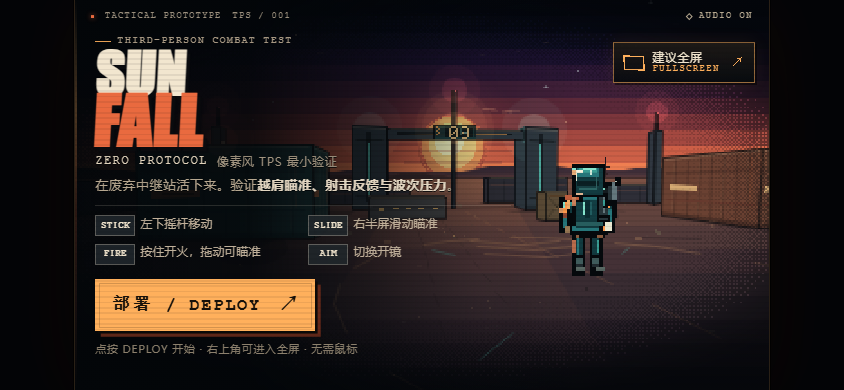
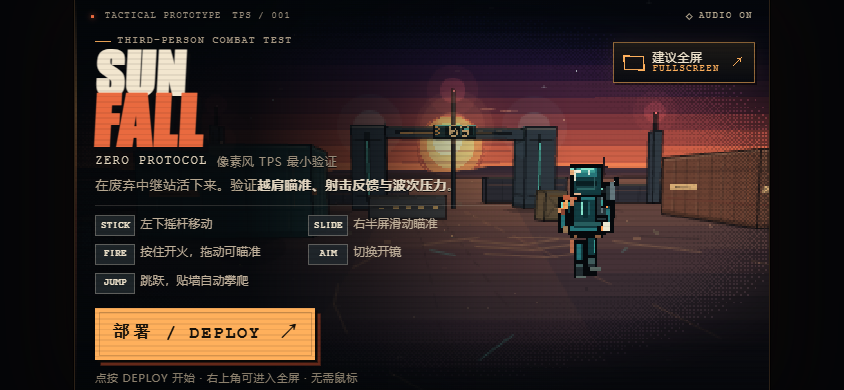
docs: 同步跳跃/攀爬的操作表、代码地图与预览图
- README：桌面/触屏操作表补 SPACE / JUMP；补充跳跃高度与 SPACE CLIMB 提示说明；
  "验证内容"补 3C 动作与立体地形，"原型边界"改为无蹲伏/无墙跑、敌人不攀爬等。
- 开始页操作表补 SPACE 与方向键；暂停页提示、触屏帮助补 JUMP。
- AGENTS：刷新代码地图行号，新增"垂直移动契约"一节（p.y / BODY_H / STEP_UP /
  CLIMB_REACH / climbable），验证清单补立体地形项，已知限制与 backlog 同步。
- 三张预览图按新画面重截：桌面（集装箱顶俯瞰）、手机触控（含 JUMP 键）、开始页。

diff --git a/index.html b/index.html
@@ -556,15 +556,18 @@
         <div class="ctl"><kbd>WASD</kbd><span>移动</span></div>
         <div class="ctl"><kbd>LMB</kbd><span>射击</span></div>
         <div class="ctl"><kbd>RMB</kbd><span>瞄准</span></div>
+        <div class="ctl"><kbd>SPACE</kbd><span>跳跃 / 攀爬</span></div>
         <div class="ctl"><kbd>SHIFT</kbd><span>冲刺</span></div>
         <div class="ctl"><kbd>R</kbd><span>换弹</span></div>
         <div class="ctl"><kbd>ESC</kbd><span>暂停</span></div>
+        <div class="ctl"><kbd>↑↓</kbd><span>视角</span></div>
       </div>
       <div class="touch-help" aria-label="触屏操作">
         <span><b>STICK</b>左下摇杆移动</span>
         <span><b>SLIDE</b>右半屏滑动瞄准</span>
         <span><b>FIRE</b>按住开火，拖动可瞄准</span>
         <span><b>AIM</b>切换开镜</span>
+        <span><b>JUMP</b>跳跃，贴墙自动攀爬</span>
       </div>
       <div class="actions">
         <button id="deploy" class="btn" type="button">部署 / DEPLOY<span class="arrow">↗</span></button>
@@ -584,7 +587,7 @@
         <button id="resume" class="btn" type="button">继续 / RESUME<span class="arrow">→</span></button>
         <button id="pauseQuit" class="text-btn" type="button">ABANDON RUN</button>
       </div>
-      <div class="pause-note"><span><b>WASD</b> 移动</span><span><b>LMB</b> 射击</span><span><b>RMB</b> 瞄准</span><span><b>SHIFT</b> 冲刺</span><span><b>R</b> 换弹</span></div>
+      <div class="pause-note"><span><b>WASD</b> 移动</span><span><b>LMB</b> 射击</span><span><b>RMB</b> 瞄准</span><span><b>SPACE</b> 跳跃/攀爬</span><span><b>SHIFT</b> 冲刺</span><span><b>R</b> 换弹</span></div>
     </div>
   </section>
 

diff --git a/AGENTS.md b/AGENTS.md
@@ -55,7 +55,7 @@ npx --yes serve C:\pixel-tps -l 4321
 
 ```
 C:\pixel-tps\
-├── index.html             # 全部实现：HTML + CSS + JS（单文件，约 4867 行）
+├── index.html             # 全部实现：HTML + CSS + JS（单文件，约 5214 行）
 ├── README.md              # 玩家向说明：操作表、验证内容、原型边界
 ├── cloudflare.config.ts   # Cloudflare Workers 部署配置（cf CLI 读取）
 ├── preview.png            # 桌面实际游玩画面（README 引用）
@@ -82,31 +82,41 @@ Select-String -Path index.html -Pattern '^\s*// -{3,}' -Encoding UTF8
 | 行 | 区块 | 职责 |
 |---:|---|---|
 | 9 | `<style>` | 全部 CSS（含 320 行的 touch/mobile 段） |
-| 527 | `<body>` | DOM：`#frame`、`#game`，菜单/暂停/结算、HUD、触屏控件、旋转提示 |
-| 636 | `<script>` | IIFE，`'use strict'`，全部逻辑作用域 |
-| 640 | 总注释 | 说明 384×216 + 最近邻 + 无外部资源 |
-| 708 | fullscreen | 全屏 API、`is-fullscreen` 状态、降级提示（Safari / 添加到主屏幕） |
-| 760 | math / colour | 数学、颜色、像素抖动辅助 |
-| 849 | bitmap font | 位图字体，HUD 文本渲染 |
-| 957 | sprites | 程序化像素精灵（角色、敌人、枪、道具） |
-| 1359 | audio | Web Audio 音效合成，需一次用户手势解锁 |
-| 1512 | world | 场景/掩体/世界数据 `WORLD` |
-| 1671 | game state | `game` 对象、波次、计分、玩家状态 |
-| 1764 | projection / camera | 越肩相机、肩部偏移、ADS 拉近、投影 `project()` |
-| 1937 | collision / rays | 碰撞、射线 `castWorldRay()`、视线检测 |
-| 2057 | effects | 弹着火花、tracer、屏幕震动、伤害数字 |
-| 2103 | shooting / enemies | 射击判定（hitscan / 爆头）、敌人 AI、弹丸、波次生成 |
-| 2767 | rendering: sky | 天空 |
-| 2943 | rendering: ground | 地面 |
-| 3177 | rendering: boxes | 掩体方块 |
-| 3367 | rendering: billboards / effects | billboard 精灵按深度排序、特效层 |
-| 3801 | HUD | 雷达、生命、弹药、波次、准星（4001 生命区 / 4038 计分区） |
-| 4182 | full-screen effects | CRT 扫描线、暗角、受击闪红 |
-| 4287 | main render | 单帧渲染总装 |
-| 4310 | UI / state | 状态机 `menu / playing / paused / gameover`、开始/暂停/结算切换 |
-| 4474 | input | 键鼠：WASD、左键、右键 ADS、Shift、R、Esc、M、Enter、指针锁定与右键拖动降级 |
-| 4574 | touch controls | 虚拟摇杆、右半屏滑动、FIRE/AIM/DASH/RELOAD/II，pointer capture |
-| 4811 | loop | `requestAnimationFrame` 主循环 + `window.SUNFALL` 调试句柄 |
+| 534 | `<body>` | DOM：`#frame`、`#game`，菜单/暂停/结算、HUD、触屏控件、旋转提示 |
+| 647 | `<script>` | IIFE，`'use strict'`，全部逻辑作用域 |
+| 651 | 总注释 | 说明 384×216 + 最近邻 + 无外部资源 |
+| 719 | fullscreen | 全屏 API、`is-fullscreen` 状态、降级提示（Safari / 添加到主屏幕） |
+| 771 | math / colour | 数学、颜色、像素抖动辅助 |
+| 860 | bitmap font | 位图字体，HUD 文本渲染 |
+| 968 | sprites | 程序化像素精灵（角色含空中收腿帧、敌人、枪、道具） |
+| 1372 | audio | Web Audio 音效合成，需一次用户手势解锁 |
+| 1537 | world | 场景/掩体/世界数据 `WORLD`；含货台、楼梯、集装箱攀爬路线 |
+| 1722 | game state | `game` 对象、波次、计分、玩家状态（`y/vy/grounded/climb`） |
+| 1819 | projection / camera | 越肩相机、肩部偏移、ADS 拉近、垂直阻尼跟随、投影 `project()` |
+| 2000 | collision / rays | 高度感知碰撞（`bodyBlocked` / `surfaceBelow`）、射线 `castWorldRay()`、视线检测 |
+| 2170 | effects | 弹着火花、tracer、屏幕震动、伤害数字 |
+| 2216 | shooting / enemies | 射击判定（hitscan / 爆头）、跳跃/攀爬入口、敌人 AI、弹丸、波次生成 |
+| 3074 | rendering: sky | 天空 |
+| 3250 | rendering: ground | 地面、投影阴影（按脚下支撑面） |
+| 3487 | rendering: boxes | 掩体方块（含 `deck` 货台样式与细节） |
+| 3692 | rendering: billboards / effects | billboard 精灵按深度排序、特效层 |
+| 4128 | HUD | 雷达、生命、弹药、波次、准星与攀爬提示（4333 生命区 / 4370 计分区） |
+| 4514 | full-screen effects | CRT 扫描线、暗角、受击闪红 |
+| 4619 | main render | 单帧渲染总装 |
+| 4642 | UI / state | 状态机 `menu / playing / paused / gameover`、开始/暂停/结算切换 |
+| 4808 | input | 键鼠：WASD、左键、右键 ADS、Space 跳跃/攀爬、Shift、R、Esc、M、Enter、指针锁定与右键拖动降级 |
+| 4911 | touch controls | 虚拟摇杆、右半屏滑动、FIRE/AIM/JUMP/DASH/RELOAD/II，pointer capture |
+| 5157 | loop | `requestAnimationFrame` 主循环 + `window.SUNFALL` 调试句柄 |
+
+### 垂直移动契约
+
+改地形/移动前先看这一段，否则很容易做出"人卡在台子里"的 bug：
+
+- 玩家是**圆柱 + 脚底高度**：`p.y` 是脚底，身高 `BODY_H = 1.72`。所有落地判定都走 `surfaceBelow(x, z, maxY)`。
+- 水平碰撞走 `resolveCircle(ent, r, feetY, stepUp)`：与身体区间不重叠的方块不再推人，所以站在箱顶上不会再被同一个箱子弹开。
+- `STEP_UP = 0.34` 是自动上台阶上限（楼梯踏步按 0.28–0.3 设计）；`STEP_DOWN = 0.42` 以内走下台阶不进入下落状态。
+- `CLIMB_REACH = 2.05` 是可攀爬的台沿高度；`buildWorld()` 里 `climbable` 由 `type !== 'wall'` 决定，**外围墙永远不可攀爬**（它是场地边界）。
+- 敌人不参与这套系统（`y` 恒为 0、不传 feetY），所以只能在地面绕行；新增抬高的可站立平台时记得别把敌人出生点放上去（`findSpawn` 已按 `surfaceBelow` 过滤）。
 
 ### 自动化调试句柄
 
@@ -116,7 +126,8 @@ Select-String -Path index.html -Pattern '^\s*// -{3,}' -Encoding UTF8
 SUNFALL.start()          // 进入 playing
 SUNFALL.state()           // 'menu' | 'playing' | 'paused' | 'gameover'
 SUNFALL.pause(); SUNFALL.resume(); SUNFALL.endGame()
-SUNFALL.castWorldRay(...); SUNFALL.project(...)
+SUNFALL.castWorldRay(...); SUNFALL.project(...); SUNFALL.surfaceBelow(...)
+SUNFALL.jump(); SUNFALL.mantle()   // 手动触发跳跃 / 攀爬探测
 // 另外暴露：game, cam, WORLD, SPRITES, sound
 ```
 
@@ -159,8 +170,9 @@ SUNFALL.castWorldRay(...); SUNFALL.project(...)
 提交前至少完成以下项，并把结论写进 commit body 或 PR 描述：
 
 - [ ] 页面加载无 console 报错（含未捕获异常、资源 404）
-- [ ] `?desktop=1`：WASD 移动、鼠标转向、左键连发、右键 ADS、Shift 冲刺、R 换弹、Esc 暂停、M 静音、Enter 快速开始
-- [ ] `?touch=1`：虚拟摇杆移动、右半屏滑动转向、FIRE 按住连发且可滑动瞄准、AIM / DASH / RELOAD / II 全部生效
+- [ ] `?desktop=1`：WASD 移动、鼠标转向、左键连发、右键 ADS、Shift 冲刺、Space 跳跃、R 换弹、Esc 暂停、M 静音、Enter 快速开始
+- [ ] `?touch=1`：虚拟摇杆移动、右半屏滑动转向、FIRE 按住连发且可滑动瞄准、AIM / JUMP / DASH / RELOAD / II 全部生效
+- [ ] 立体地形：走楼梯上货台（0.3→0.6→0.9→1.2→1.5）、贴台沿按跳跃能翻上去、矮箱→集装箱两段攀爬、从台面走落/跳落回地面不卡住
 - [ ] 状态机完整走通：`menu → playing → paused → playing`，以及死亡 `→ gameover →` 重开
 - [ ] 波次推进、击杀计分、换弹、冲刺无敌帧、生命归零结算均符合预期
 - [ ] 竖屏显示旋转提示（ROTATE TO PLAY）
@@ -251,10 +263,12 @@ git push -u origin feat/xxx
 这些是**已知且被接受**的取舍，修它们属于新需求，不属于 bug：
 
 - 角色与敌人是 billboard 精灵，遮挡按深度排序近似，近距离会有穿插。
-- 掩体绕行是方向采样，不是导航网格，复杂地形会卡住。
+- 掩体绕行是方向采样，不是导航网格，复杂地形会卡住；**敌人不会攀爬也不会跳**，玩家上高台后它们只在地面绕。
+- 攀爬是固定时长的一次性翻越动画：没有悬挂、横向挪移、蹬墙跳或墙跑；空中只有一段跳。
+- 只有玩家有垂直移动；敌人与弹丸的落点仍按地面高度近似（弹丸会被台面阻挡，但不会停在台面上滚动）。
 - 触屏准星只有轻微辅助吸附，不是自动瞄准。
 - 旧版 iOS Safari 的指针捕获/手势可能冲突，需要真机复测。
-- 没有跳跃、武器切换、存档、联网、性能分级。
+- 没有蹲伏、武器切换、存档、联网、性能分级。
 - 音频必须由一次用户手势启动（浏览器策略）。
 
 ---
@@ -264,7 +278,7 @@ git push -u origin feat/xxx
 按优先级排列，动手前先在 issue 或提交里说明取舍：
 
 1. **性能分级**：低端机降低粒子/后处理密度（目标：稳定 60fps）。
-2. **敌人寻路**：方向采样升级为轻量流场或路点图。
+2. **敌人寻路**：方向采样升级为轻量流场或路点图，并让敌人能上/绕开货台（当前它们只会在地面打转）。
 3. **武器多样性**：第二把武器 + 切换键位表（需同步 README）。
 4. **真机回归**：iOS Safari / Android Chrome 触屏手势实测记录。
 5. **CI 冒烟**：用 headless 浏览器 + `window.SUNFALL` 跑状态机断言。

diff --git a/README.md b/README.md
@@ -29,11 +29,16 @@
 | 鼠标 | 越肩视角瞄准 |
 | 左键 | 射击（按住连发） |
 | 右键 | 瞄准 / ADS（降低扩散、拉近视野） |
+| `Space` | 跳跃；朝台沿/箱子/集装箱推进时自动攀爬翻越 |
 | `Shift` | 冲刺（短暂无敌帧） |
 | `R` | 换弹 |
+| `方向键` | 转身 / 抬枪（无鼠标锁定时的备用视角） |
 | `Esc` | 暂停 / 继续 |
 | `M` | 静音 |
 | `Enter` | 菜单快速开始 / 结算快速重开 |
+
+跳跃高度约 0.85 个世界单位（约半个身位）：低矮掩体可以直接跳上，1.5 米以上的台面需要贴边攀爬。
+准星上方出现 `SPACE CLIMB` 时，说明前方台沿在攀爬判定内。
 
 ### 手机 / 触屏
 
@@ -43,6 +48,7 @@
 | 右半屏滑动 | 转向 / 抬枪 |
 | `FIRE` 按钮 | 按住连发；按住时滑动可边射边瞄 |
 | `AIM` 按钮 | 切换瞄准 / ADS |
+| `JUMP` 按钮 | 跳跃 / 贴边攀爬（准星提示 `JUMP CLIMB` 时可用） |
 | `DASH` | 冲刺 |
 | `RELOAD` | 换弹 |
 | `II` | 暂停 |
@@ -53,12 +59,14 @@
 
 ## 这个 Demo 验证的内容
 
-- **越肩第三人称相机**：肩部偏移、ADS 拉近、相机与掩体碰撞、命中反馈。
+- **越肩第三人称相机**：肩部偏移、ADS 拉近、相机与掩体碰撞、命中反馈；垂直方向带阻尼跟随，起跳时角色会在画面里"升起"，落地有下沉与震动。
+- **3C 基础动作**：走 / 冲刺 / 跳跃 / 攀爬翻越；带 coyote time（离台后仍可起跳）、跳跃缓冲、可变跳跃高度、空中控制、自动小台阶上下（≤0.34 米）与落地压缩、扬尘、音效。
+- **立体地形**：西侧带楼梯的双层货台、北侧装卸屋顶（三级台阶）、集装箱顶攀爬路线（矮箱→箱顶）、可翻越的低掩体；台面可以站立、架枪、跳下，敌人只能在地面绕行。
 - **射击手感**：hitscan、爆头判定、枪口火光、tracer、弹着火花、伤害数字、命中标记、后坐力、屏幕震动。
-- **战斗循环**：Grunt / Brute 两种敌人、延迟开火的弹丸、视线检测、简单掩体绕行、波次递增。
+- **战斗循环**：Grunt / Brute 两种敌人、延迟开火的弹丸、视线检测（按玩家所在高度计算）、简单掩体绕行、波次递增。
 - **生存循环**：生命值、冲刺无敌帧、换弹、击杀得分、波次奖励、死亡结算与重开。
-- **像素表现**：384×216 内部分辨率 + 最近邻放大、程序化像素角色/场景、抖动渐变、CRT 扫描线、像素字体 HUD。
-- **桌面 / 触屏双端**：桌面用鼠标锁定 + 键盘；触屏用虚拟摇杆 + 右半屏滑动 + 开火/瞄准/冲刺/换弹按钮。竖屏会显示旋转提示。
+- **像素表现**：384×216 内部分辨率 + 最近邻放大、程序化像素角色/场景、抖动渐变、CRT 扫描线、像素字体 HUD、空中收腿帧。
+- **桌面 / 触屏双端**：桌面用鼠标锁定 + 键盘；触屏用虚拟摇杆 + 右半屏滑动 + 开火/瞄准/跳跃/冲刺/换弹按钮。竖屏会显示旋转提示。
 - **全屏引导**：开始页右上角常驻「建议全屏」；开始后可从暂停菜单进入全屏。独立窗口模式会自动隐藏该提醒；浏览器不支持时给出 Safari / 添加到主屏幕的替代说明。
 - **零资产依赖**：没有图片、字体或音频文件；所有内容内联生成。
 
@@ -67,9 +75,10 @@
 这是一个验证手感和视觉方向的最小原型，不是生产级游戏：
 
 - 敌人和角色使用 billboard 精灵，遮挡关系是按深度排序的近似结果。
-- 掩体绕行是简单的方向采样，不是完整导航网格。
+- 掩体绕行是简单的方向采样，不是完整导航网格；敌人不会攀爬，只会在地面贴着台子打转。
+- 攀爬是固定时长的翻越动画，没有悬挂、横向挪移或墙跑；空中只有一层跳跃。
 - 触屏准星只有很轻的辅助吸附，不是自动瞄准；摇杆/滑动都做了 pointer capture，但个别旧版 iOS Safari 的手势冲突可能仍需调试。
-- 没有跳跃、武器切换、存档、联网或性能分级。
+- 没有蹲伏、武器切换、存档、联网或性能分级。
 - 音频需要一次用户手势才能启动。
 
 ## 文件
@@ -83,6 +92,7 @@
 ## 调试覆盖
 
 - 自动检测触屏；也可以用 `?touch=1` 强制触屏布局，用 `?desktop=1` 强制桌面布局。
-- 桌面和触屏都测试过移动、瞄准、射击、换弹、冲刺、暂停、复活 / 重开。
-- 触屏测试覆盖虚拟摇杆、右半屏滑动、开火拖动瞄准、AIM 切换、RELOAD、DASH、暂停。
+- 桌面和触屏都测试过移动、瞄准、射击、换弹、冲刺、跳跃 / 攀爬、暂停、复活 / 重开。
+- 触屏测试覆盖虚拟摇杆、右半屏滑动、开火拖动瞄准、AIM 切换、JUMP、RELOAD、DASH、暂停。
+- 高度相关实测：平地起跳顶点 ≈0.83、楼梯逐级 0.3→0.6→0.9→1.2→1.5、贴台沿攀爬到 1.5、矮箱 0.95 → 集装箱 2.55 的两段攀爬、从台面走落回地面均正常。
 - 全屏 API 不可用或请求被拒绝时，会显示可操作的替代提示，不影响继续游戏。
